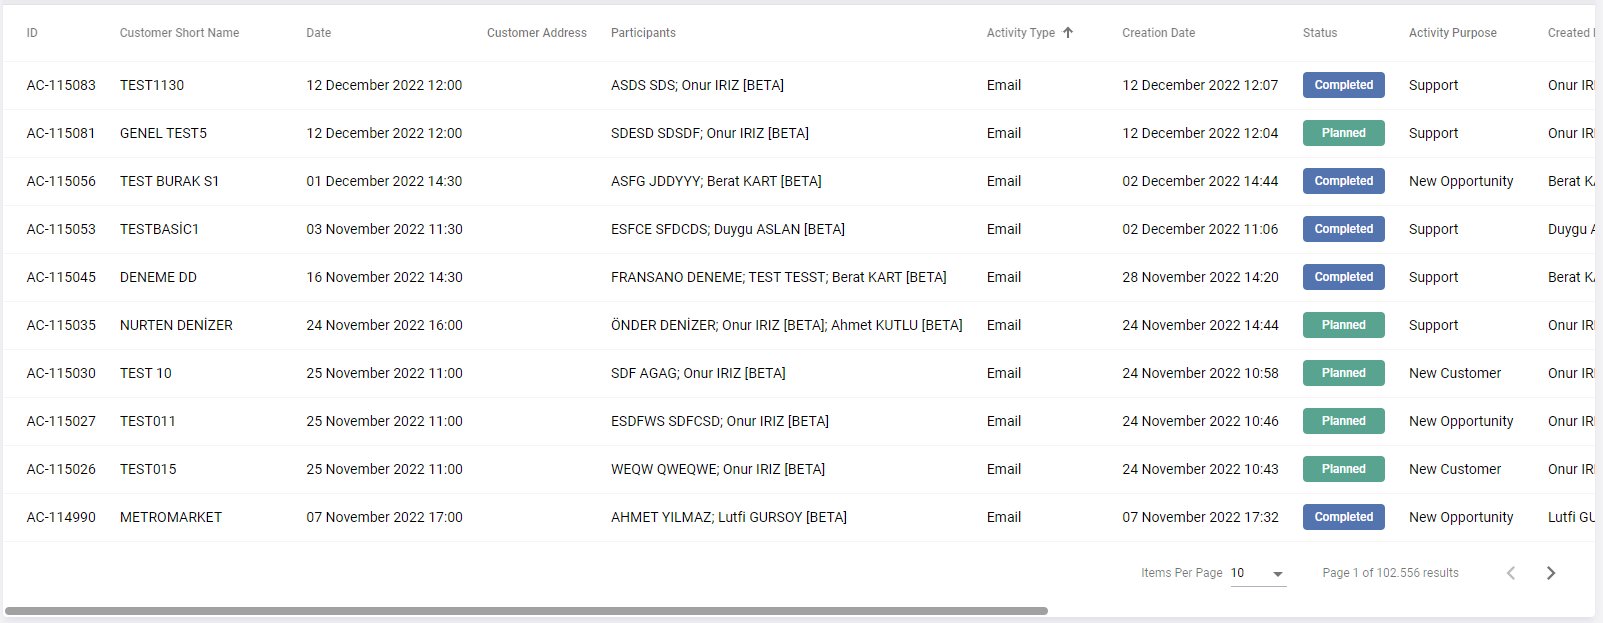
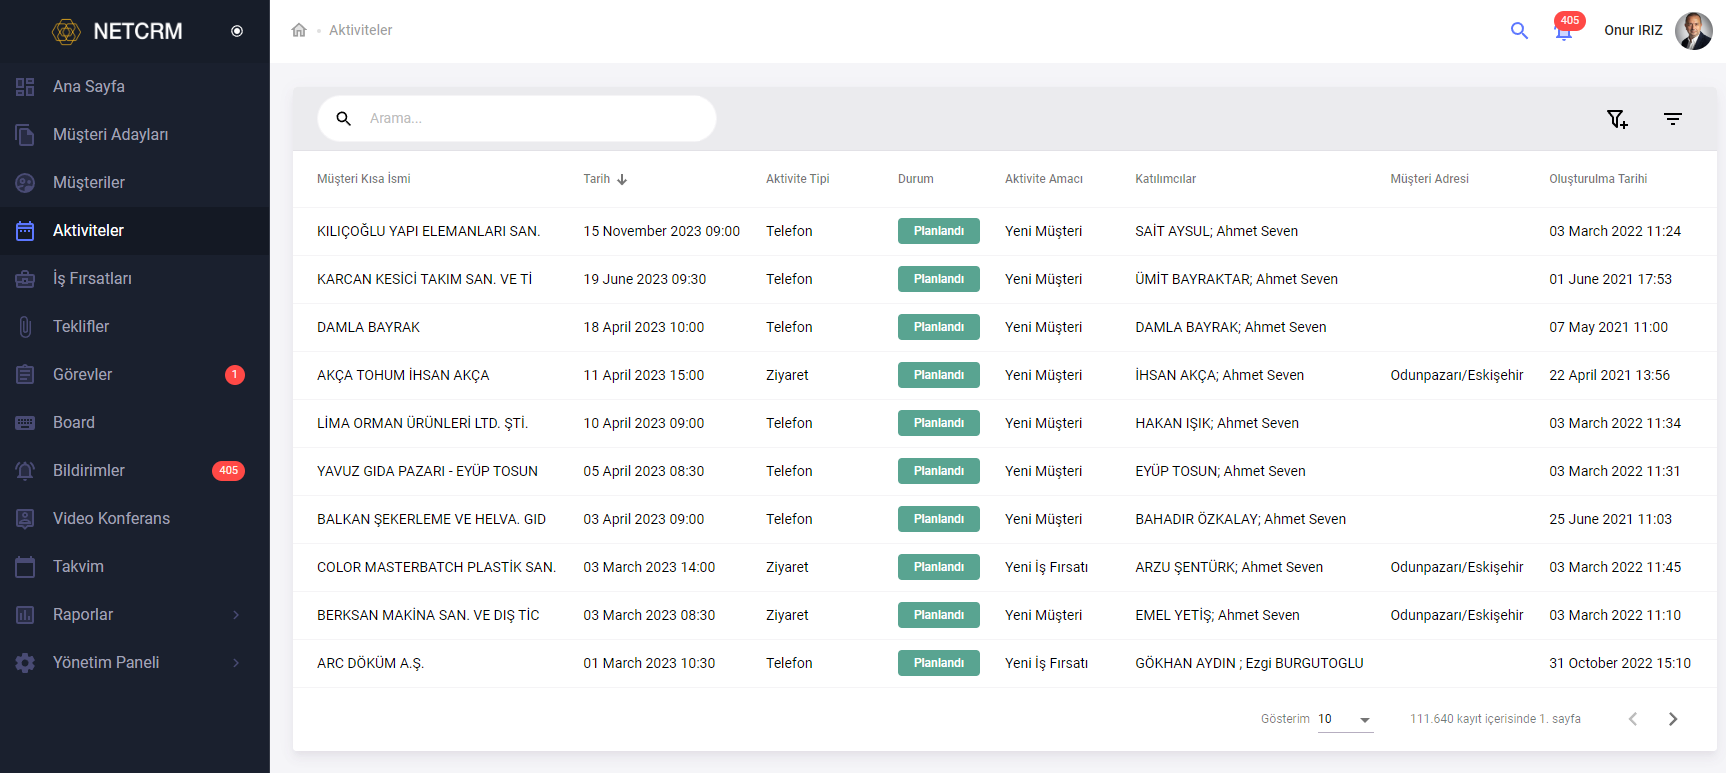
activity db design added

diff --git a/docs/activity/index.md b/docs/activity/index.md
@@ -6,17 +6,13 @@ nav_order: 4
 ## Aktiviteler
 {: .text-blue-100 .fs-8}
 ---
-
-
-#### Search
+#### Aktiviteler Listesi
 
 Aktiviteleri filtreleme, sıralama yaparak sonuçları sayfalara göre listeler.
+Aktivitelerde farklı arama setleri için filitre setleri kullanılabilir. 
+Listedeki kolonlar kolon filitresi ile görünürlüğü değiştirilebilir. 
 
 ![ActivitySearch](/images/activitiy.png)
-
-```http
-  POST /api/Activity/Search
-```
 
 | Parametre | Tip     | Açıklama                |
 | :-------- | :------- | :------------------------- |
@@ -26,9 +22,20 @@ Aktiviteleri filtreleme, sıralama yaparak sonuçları sayfalara göre listeler.
 | `orderType` | `enum` | Sıralama türü |
 | `filter` | `filter` |filtreleme yapılacak kolon|
 
-
-
 ![ActivityListView](/images/activityListView.png)
+
+#### Servisler ve İşlemler
+```http
+  POST /api/Activity/Search
+```
+
+#### DB Design
+![ActivityDBDesign](/images/activityDBDesign.png)
+
+
+#### Yetkiler ve Süreç
+
+#### Aktivite Detay
 
 
 
